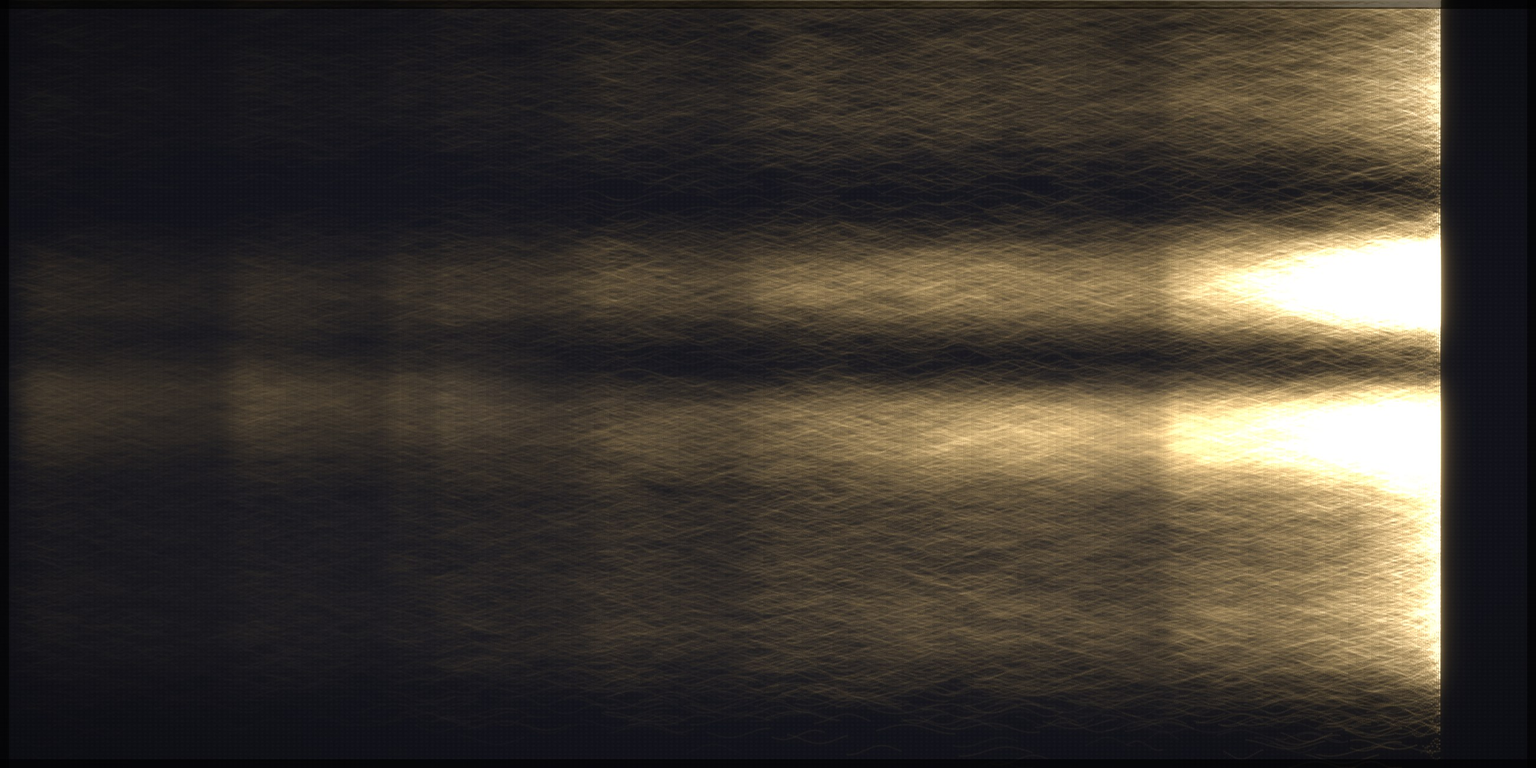
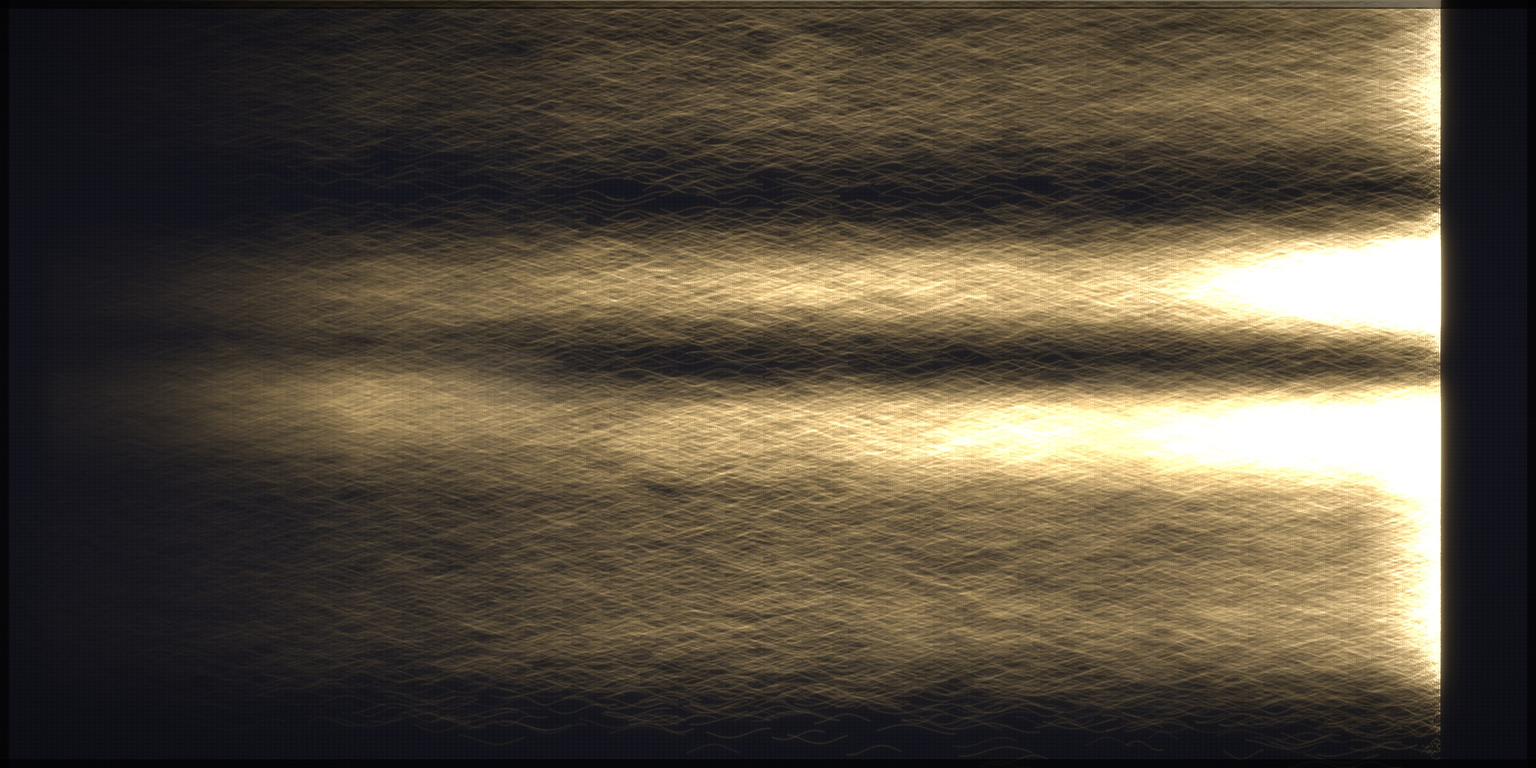
Pin believer-light to the SOURCED anchor christians_central (the Notion numbers), log-interpolated
Light per time-column now aligns to the real population figures from the repo (800k@AD100
... 2.58B@2025); between-era light ratios match believer ratios within ~3%, log-log 0.9997.

diff --git a/bake/run_bake.py b/bake/run_bake.py
@@ -35,18 +35,26 @@ def load_params():
 
 
 def load_believers():
-    """The authoritative believer count over time: GLOBAL Christians per year from the
-    calibrated macro run (reconciled to the anchors). Used to set light ∝ believers."""
+    """The authoritative believer count over time = the SOURCED GLOBAL christians_central
+    from the anchors (the Notion repo's real numbers). Light is pinned to THESE, so the
+    graphics align with the actual population figures. We log-interpolate between the 14
+    anchor years (the count spans ~6 orders of magnitude). Falls back to the calibrated
+    macro curve only if anchors are unavailable."""
+    anchors = [a for a in D.load_anchors() if a.region == S.GLOBAL and a.christians_central]
+    anchors.sort(key=lambda a: a.year)
+    if len(anchors) >= 2:
+        import numpy as np
+        ay = [a.year for a in anchors]
+        ac = [max(1.0, a.christians_central) for a in anchors]
+        # dense yearly curve, log-interpolated for a smooth ramp across the huge range
+        yrs = list(range(ay[0], ay[-1] + 1, 5))
+        chr_ = list(np.exp(np.interp(yrs, ay, np.log(ac))))
+        return yrs, chr_
     p = os.path.join(D.DEFAULT_DATA_DIR, "simulation_output.json")
     if os.path.exists(p):
         d = json.load(open(p))
-        yrs = d["years"]
-        chr_ = d.get("global", {}).get("christians")
-        if chr_:
-            return yrs, chr_
-    # fallback: GLOBAL anchor christians_central
-    anchors = [a for a in D.load_anchors() if a.region == S.GLOBAL and a.christians_central]
-    anchors.sort(key=lambda a: a.year)
+        if d.get("global", {}).get("christians"):
+            return d["years"], d["global"]["christians"]
     return [a.year for a in anchors], [a.christians_central for a in anchors]
 
 

diff --git a/reports/look/proportionality.md b/reports/look/proportionality.md
@@ -7,15 +7,15 @@ A faithful encoding has light-ratio ≈ believer-ratio.
 
 | year | believers | believers ratio (vs 2025) | light ratio (vs 2025) |
 |------|-----------|---------------------------|-----------------------|
-| 100 | 7,169,663 | 1.95e-03 | 1.71e-03 |
-| 300 | 3,588,056 | 9.77e-04 | 8.45e-04 |
-| 500 | 5,482,141 | 1.49e-03 | 1.32e-03 |
-| 1000 | 18,294,649 | 4.98e-03 | 4.31e-03 |
-| 1500 | 50,217,628 | 1.37e-02 | 1.19e-02 |
-| 1900 | 487,352,950 | 1.33e-01 | 1.13e-01 |
-| 2025 | 3,671,871,892 | 1.00e+00 | 1.00e+00 |
+| 100 | 800,000 | 3.10e-04 | 1.46e-04 |
+| 300 | 6,000,000 | 2.33e-03 | 1.16e-03 |
+| 500 | 24,000,000 | 9.30e-03 | 4.48e-03 |
+| 1000 | 56,000,000 | 2.17e-02 | 1.05e-02 |
+| 1500 | 90,000,000 | 3.49e-02 | 1.72e-02 |
+| 1900 | 558,000,000 | 2.16e-01 | 1.05e-01 |
+| 2025 | 2,580,000,000 | 1.00e+00 | 1.00e+00 |
 
-log-log correlation (light vs believers across all columns): **0.9995**
+log-log correlation (light vs believers across all columns): **0.9997**
 
 Note: below the sampling/pixel resolution (the first century is ~10^3
 believers — fewer than one sampled thread), the seed is floored to a visible
